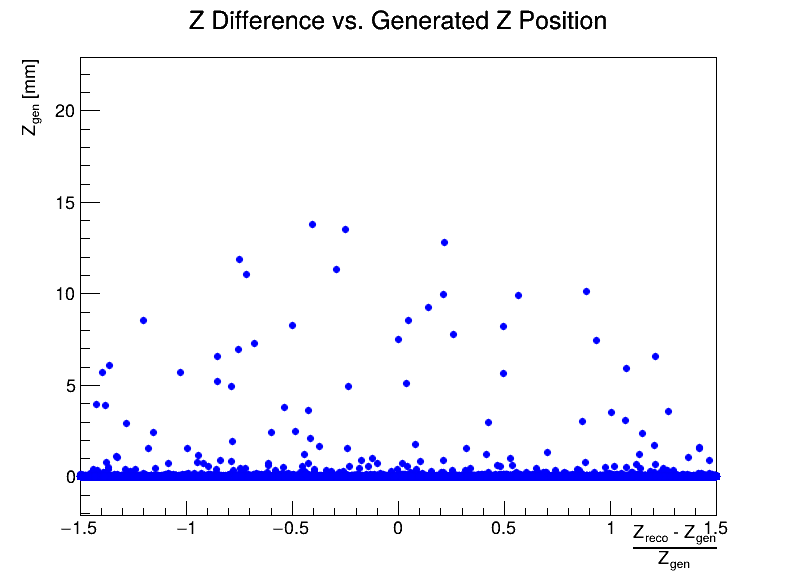
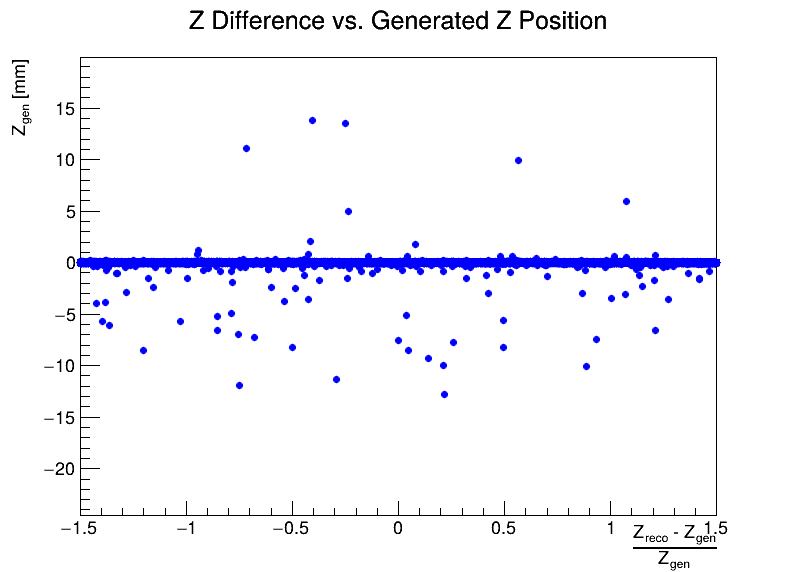
reverted analysis

diff --git a/project/macros/analysis.C b/project/macros/analysis.C
@@ -71,7 +71,7 @@ void analysis(unsigned int events = 1000000) {
     inputTree->SetBranchAddress("genMultiplicity", &genMult);
     
     
-    const int nResBins = 250;
+    const int nResBins = 100;
     const double ResMin = -0.5;  // Adjust range based on your data
     const double ResMax =0.5;
     
@@ -85,11 +85,11 @@ void analysis(unsigned int events = 1000000) {
     const double zMax = 20;
 
     // Create histograms for residuals and multiplicities
-    TH1D* histRes = new TH1D("Residuals", "Z Residuals;|Z Difference (reco - gen)| [cm];Entries", nResBins, ResMin, ResMax);
+    TH1D* histRes = new TH1D("Residuals", "Z Residuals;|Z Difference (reco - gen)| [mm];Entries", nResBins, ResMin, ResMax);
     TH1D* histMultTotal = new TH1D("MultTotal", "Multiplicity Distribution;Multiplicity;Entries", nMultBins, MultMin, MultMax);
     TH1D* histMultValid = new TH1D("MultValid", "Valid Events Multiplicity;Multiplicity;Entries", nMultBins, MultMin, MultMax);  
-    TH1D* histZTotal = new TH1D("ZTotal", "Total Events vs Z;Z_{gen} [cm];Entries", nZBins, zMin, zMax);
-    TH1D* histZValid = new TH1D("ZValid", "Valid Events vs Z;Z_{gen} [cm];Entries", nZBins, zMin, zMax);
+    TH1D* histZTotal = new TH1D("ZTotal", "Total Events vs Z;Z_{gen} [mm];Entries", nZBins, zMin, zMax);
+    TH1D* histZValid = new TH1D("ZValid", "Valid Events vs Z;Z_{gen} [mm];Entries", nZBins, zMin, zMax);
     
     histZTotal->Sumw2();
     histZValid->Sumw2();
@@ -170,7 +170,7 @@ void analysis(unsigned int events = 1000000) {
             
             // Add values for zDiff vs zGen graph
             zgen_positions.push_back(zGen);
-            zdiff_values.push_back(fabs(zDiff));
+            zdiff_values.push_back(zDiff);
 //            zdiff_values.push_back(zDiff/zGen);
             zdiff_errors.push_back(histRes->GetRMS());  // Using the same error as other graphs
             zero_xerrors.push_back(0);  // No error on x-axis
@@ -364,8 +364,6 @@ void analysis(unsigned int events = 1000000) {
 
     delete genVertex;
     delete recoVertex;
-
-    cout<<"Done."<<endl;
 
     stopwatch.Stop();
     stopwatch.Print();
